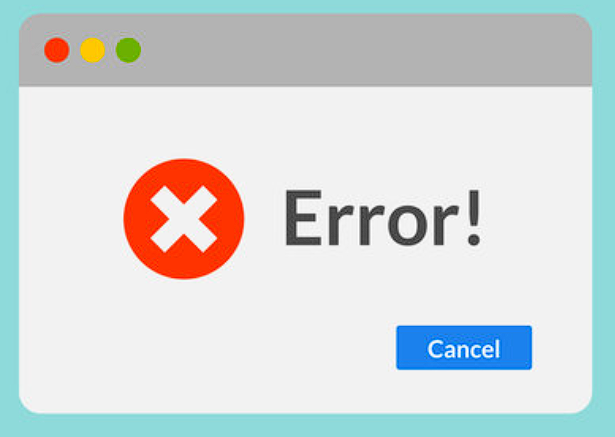
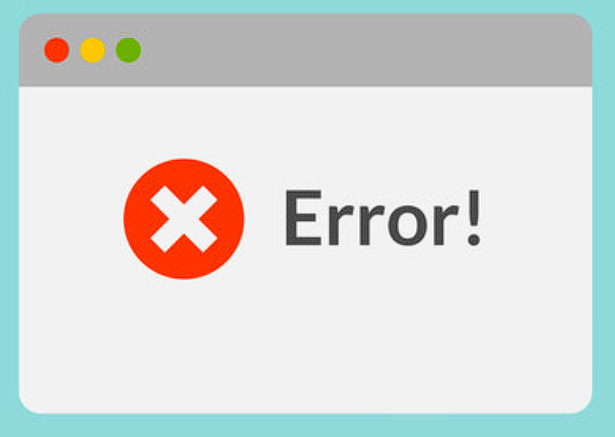
Refactoring to hooks
Refactoring forms to use hooks. useState. Added toastify. The PNG error file has been reworked.

Changed region(s): [[0.6179, 0.7437, 0.865, 0.8627]]

diff --git a/src/components/Pokemon/Info.jsx b/src/components/Pokemon/Info.jsx
@@ -35,20 +35,20 @@ export function PokemonInfo ({ pokemonName }){
                                                 setArr(pokemon.results)
                                                 // console.log(pokemon);
                                                 // console.log(pokemon.results);
-                                                setStatus(Status.RESOLVED);
+                                                // setStatus(Status.RESOLVED);
                                             })
                                             .catch(error  => {
                                                 setError(error);
-                                                setStatus(Status.REJECTED);
+                                                // setStatus(Status.REJECTED);
                                             });
 
-    }, [])
+            }, [])
     
     useEffect(() =>{
-         if(!pokemonName){
-             console.log('pokemonName це пустий рядок. fetch не робимо');
-            return;
-         }
+        if(!pokemonName){
+           console.log('pokemonName це пустий рядок. fetch не робимо');
+           return;
+        }
         setStatus( Status.PENDING );
 
         pokemonAPI(pokemonName)
@@ -66,32 +66,35 @@ export function PokemonInfo ({ pokemonName }){
     }, [pokemonName])
 
     /* We log the `pokemon` state value to the console after it has been updated. */
-    useEffect(() => {
-        console.log("pokemon state:", pokemon)
-                    }, [pokemon]);
-    useEffect(() => {
-        console.log("pokemon arr:", arr)
-                    }, [arr]);                
+    /*              
+                                            useEffect(() => {
+                                                console.log("pokemon state:", pokemon)
+                                                            }, [pokemon]);
+                                            useEffect(() => {
+                                                console.log("pokemon arr:", arr)
+                                                            }, [arr]); 
+    */                                               
 
 return(
-    <>
-    <h2>List of Pokémon</h2>
-    { <PokemonArr arrOfPokemons = {arr}/> }
-    {
-    status === 'idle' && <div>Введите имя покемона.</div>
-    }
+        <>
+        <h2>List of Pokémon</h2>
 
-    {
-    status === 'pending' && <PokemonPendingView pokemonName = {pokemonName}/>
-    }
+        { <PokemonArr arrOfPokemons = {arr}/> }
+        {
+        status === 'idle' && <div>Введіть ім'я покемона..</div>
+        }
 
-    {
-    status === 'rejected' &&  <PokemonError error = {error}/>
-    }
+        {
+        status === 'pending' && <PokemonPendingView pokemonName = {pokemonName}/>
+        }
 
-    { 
-    status === 'resolved' && <PokemonDataView pokemon = {pokemon}/>
-    }             
-    </>
-    )
+        {
+        status === 'rejected' &&  <PokemonError error = {error}/>
+        }
+
+        { 
+        status === 'resolved' && <PokemonDataView pokemon = {pokemon}/>
+        }             
+        </>
+        )
 }

diff --git a/src/components/PokemonForm/PokemonForm.jsx b/src/components/PokemonForm/PokemonForm.jsx
@@ -1,42 +1,43 @@
-import { Component  } from 'react';
+// import { Component  } from 'react';
+import { useState   } from 'react';
 import { ImSearch   } from 'react-icons/im';
 import { toast      } from 'react-toastify';
 
 const styles = { form: { marginBottom: 20, marginTop: 15 }}
 
-export class PokemonForm extends Component{
-    state = {
-        pokemon: '',
+export function PokemonForm ({ onSubmit }){
+    // state = {
+    //     pokemon: '',
+    // }
+
+    const [pokemonName, setPokemonName] = useState('');
+
+    const handleNameChange = event =>{
+    setPokemonName(event.currentTarget.value.toLowerCase());
     }
 
-    handleNameChange = event =>{
-    this.setState({ pokemon: event.currentTarget.value.toLowerCase()});
-    }
-
-    handleSubmit = event => {
+    const handleSubmit = event => {
         event.preventDefault();
 
-        if(this.state.pokemon.trim() === ''){
-            alert('Введите имя покемона')
-            toast.error('Введите имя покемона!');
+        if(pokemonName.trim() === ''){
+            alert(`Введить ім'я покемона!`)
+            toast.error(`Введить ім'я покемона`);
             return;
         }
 
-        console.log(this.state.pokemon);
-        
+        // console.log(this.state.pokemon);
 
-        this.props.onSubmit(this.state.pokemon);
-        this.setState({ pokemon: ''})
+       onSubmit(pokemonName);
+       setPokemonName('');
     };
 
-    render(){
         return(
-            <form onSubmit={this.handleSubmit} style={styles.form}>
+            <form onSubmit={handleSubmit} style={styles.form}>
                 <input
                 type="text"
                 name="pokemon"
-                value={this.state.pokemon}
-                onChange={this.handleNameChange}
+                value={pokemonName}
+                onChange={handleNameChange}
                 />
                 <button type="submit">
 
@@ -45,6 +46,6 @@ export class PokemonForm extends Component{
 
                 </button>
             </form>
-        );
-    }
+            );
+    
 };

diff --git a/src/components/PokemonPendingView/PokemonPendingView.jsx b/src/components/PokemonPendingView/PokemonPendingView.jsx
@@ -10,24 +10,23 @@ export function PokemonPendingView({ pokemonName }){
 
     const pokemon ={
         name: pokemonName,
-        sprites: {
-            other: {
-                'official-artwork': {
-                    front_default: pendingImage,
-                },
-            },
-        },
-
+                                sprites: {
+                                    other: {
+                                        'official-artwork': {
+                                            front_default: pendingImage,
+                                        },
+                                    },
+                                },
         stats: [],
     }
     
     return (
-        <div role="alert">
-            <div style={styles.spinner}>
-            <ImSpinner size="23" className="icon-spin"/>
-            Загружаем...
-            <PokemonDataView pokemon = { pokemon }/>
-            </div>
-        </div>
-    );
+                                <div role="alert">
+                                    <div style={styles.spinner}>
+                                    <ImSpinner size="23" className="icon-spin"/>
+                                    Загружаем...
+                                    <PokemonDataView pokemon = { pokemon }/>
+                                    </div>
+                                </div>
+            );
 }

diff --git a/src/components/App.jsx b/src/components/App.jsx
@@ -1,5 +1,8 @@
 import React, { Component } from 'react';
 
+import { ToastContainer } from 'react-toastify';
+import 'react-toastify/dist/ReactToastify.css';
+
 import { Finder } from './Finder';
 // import { SignupForm } from './Form';
 // import { SignupForm02 } from './Form02';
@@ -47,6 +50,8 @@ export class App extends Component{
         <h3>ditto</h3> */}
         <PokemonForm onSubmit    =  {this.handleFormSubmit}/>
         <PokemonInfo pokemonName =  {this.state.pokemonName}/>
+
+        <ToastContainer />
 
     </div>
     )

diff --git a/src/components/PokemonDataView/PokemonDataView.jsx b/src/components/PokemonDataView/PokemonDataView.jsx
@@ -1,7 +1,7 @@
 export function PokemonDataView({ pokemon }){
 
-     if (!pokemon || !pokemon.sprites) {
-          return null;
+    if (!pokemon || !pokemon.sprites) {
+                                                    return null;
     }
 
     const { sprites, name, stats } = pokemon;
@@ -23,7 +23,6 @@ export function PokemonDataView({ pokemon }){
                         {entry.stat.name}: {entry.base_stat}
                     </li>
                 ))}
-
             </ul>
 
         </div>

diff --git a/src/components/services/pokemon-api.jsx b/src/components/services/pokemon-api.jsx
@@ -11,7 +11,7 @@ function pokemonAPI( name ){
             if(response.ok){
                 return response.json();
             }
-            return Promise.reject(
+                return Promise.reject(
                 new Error(`Немає покемона на ім'я ${name}`)
             );
         })
